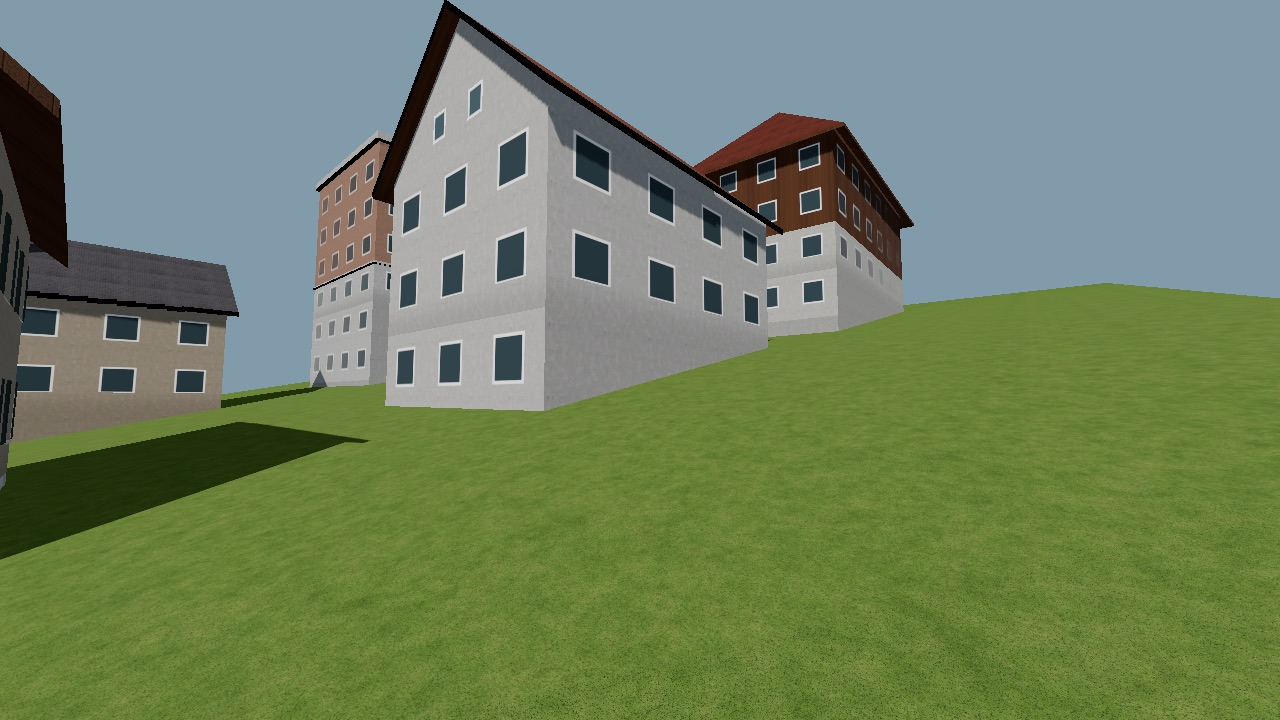
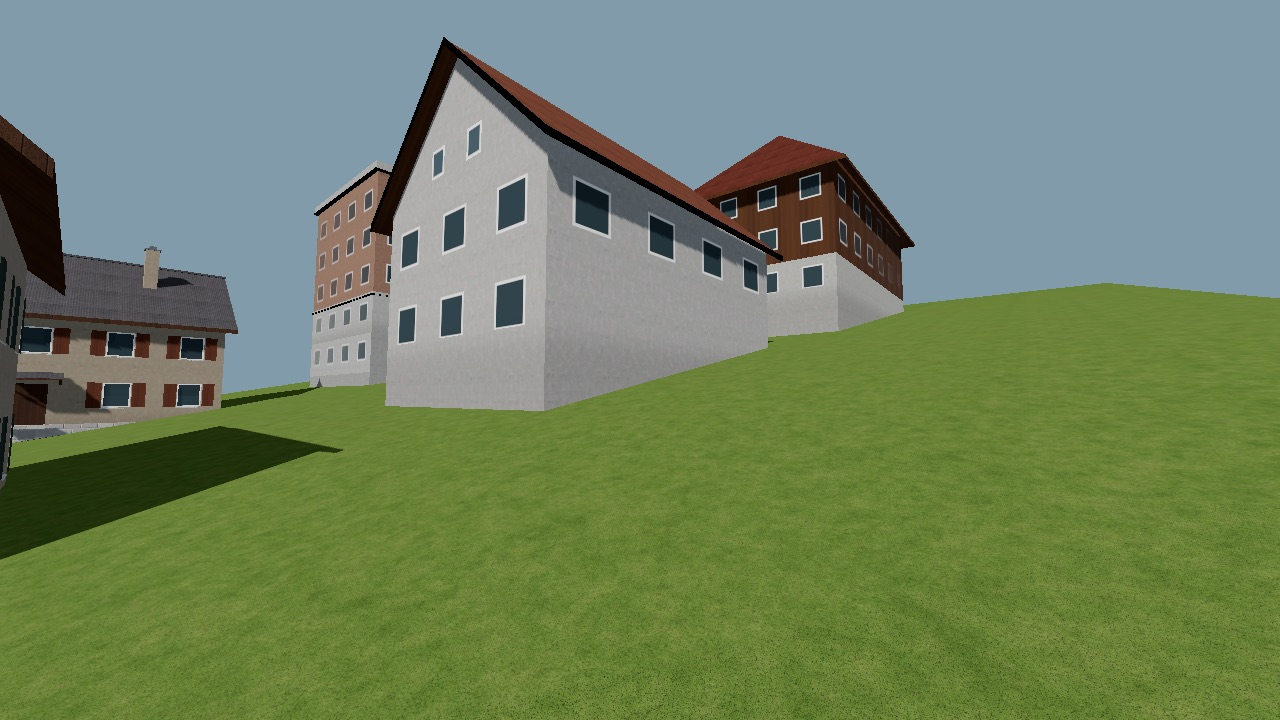
fix(3d): set buildings into slopes instead of on their highest ground
The ground floor stood at the highest ground under a building, so on
slopes buildings stood a storey or more too tall from below. It now lies
at the mean ground, set in at most 2.4 m uphill (1 m for models, whose
doors may face uphill); the unchanged terrain hides the walls there, and
no storey shows windows on a wall whose ground lies over their sills.
Downhill, lower storeys show as before.

Changed region(s): [[0.2188, 0.0, 0.7188, 0.55], [0.0, 0.0611, 0.2812, 0.6722], [0.2188, 0.5194, 0.25, 0.55]]

diff --git a/core/orqwa-world/src/tests.rs b/core/orqwa-world/src/tests.rs
@@ -2486,8 +2486,9 @@ async fn buildings_stand_on_the_ground_with_walls_facing_out() {
 
     let faces = building_faces(&world, (60.0, 500.0), 30.0);
     // From below the lowest corner, 55 m east, to a pitched roof (perhaps with a chimney)
-    // over two storeys of walls from the highest corner, 65 m east.
-    let eaves = slope_at(65.0) + 2.0 * 3.0 + 0.4;
+    // over two storeys of walls from the floor, set into the slope at its mean ground, 60 m
+    // east.
+    let eaves = slope_at(60.0) + 2.0 * 3.0 + 0.4;
     let top = highest(&faces);
     assert!((eaves + 3.0..eaves + 6.0).contains(&top), "top {top}");
     assert!((lowest(&faces) - (slope_at(55.0) - 1.0)).abs() < 0.01);
@@ -2509,16 +2510,19 @@ async fn buildings_stand_on_the_ground_with_walls_facing_out() {
 }
 
 #[tokio::test]
-async fn buildings_on_slopes_show_lower_storeys_downhill_not_a_blank_plinth() {
-    // Houses of two storeys across ground rising eastwards by 10 %, 36 m and 24 m long: their
-    // west ends stand 3.6 m and 2.4 m lower than their east ends (#554, R257).
-    let houses = [(43, 500.0, 18.0), (44, 540.0, 12.0)].map(|(id, north, half)| Building {
-        id,
-        outline: rectangle(60.0, north, half, 5.0),
-        height: None,
-        levels: Some(2.0),
-        color: None,
-    });
+async fn buildings_on_slopes_are_set_into_them() {
+    // Houses of two storeys across ground rising eastwards by 10 %, 24 m, 36 m and 60 m long:
+    // they fall 2.4 m, 3.6 m and 6 m from end to end (#554, R257).
+    let houses =
+        [(43, 470.0, 12.0), (44, 510.0, 18.0), (45, 550.0, 30.0)].map(|(id, north, half)| {
+            Building {
+                id,
+                outline: rectangle(60.0, north, half, 5.0),
+                height: None,
+                levels: Some(2.0),
+                color: None,
+            }
+        });
     let world = world(&MapData {
         buildings: houses.to_vec(),
         ..MapData::default()
@@ -2541,42 +2545,66 @@ async fn buildings_on_slopes_show_lower_storeys_downhill_not_a_blank_plinth() {
             f32::MAX
         }
     };
-    for (_, north, half) in [(43, 500.0_f32, 18.0_f32), (44, 540.0, 12.0)] {
-        let faces = building_faces(&world, (60.0, north), 25.0);
+    for (north, half) in [(470.0_f32, 12.0_f32), (510.0, 18.0), (550.0, 30.0)] {
+        let faces = building_faces(&world, (60.0, north), half + 8.0);
         let (west, east) = (60.0 - half, 60.0 + half);
-        let floor = slope_at(east);
-        let lowest_windows = faces
+        let lowest_windows = |downhill: bool| {
+            faces
+                .iter()
+                .filter(|f| {
+                    if downhill {
+                        f.normal[0] < -0.9 && f.middle()[0] < west + 1.0
+                    } else {
+                        f.normal[0] > 0.9 && f.middle()[0] > east - 1.0
+                    }
+                })
+                .filter(|f| matches!(f.style(), 0 | 2))
+                .map(windows_from)
+                .fold(f32::MAX, f32::min)
+        };
+        // The ground floor is set into the slope: below the uphill ground, by a storey at most.
+        // Walls count their texture's height from it.
+        let floor = faces
             .iter()
-            .filter(|f| f.normal[0] < -0.9 && f.middle()[0] < west + 1.0)
-            .filter(|f| matches!(f.style(), 0 | 2))
-            .map(windows_from)
-            .fold(f32::MAX, f32::min);
+            .filter(|f| f.normal[1].abs() < 0.1 && matches!(f.style(), 0 | 1))
+            .flat_map(|f| f.corners.iter().zip(f.uvs))
+            .filter(|(_, uv)| uv[1].abs() < 20.0)
+            .map(|(c, uv)| c[1] - uv[1])
+            .fold(f32::MIN, f32::max);
+        let top = slope_at(east);
+        assert!(
+            floor < top - 0.5 && floor >= top - 2.41,
+            "{half} m: floor {floor} under the uphill ground {top}"
+        );
+        // Uphill, no storey shows windows under the ground there.
+        let uphill = lowest_windows(false);
+        assert!(
+            uphill > slope_at(east) && uphill - slope_at(east) < 3.5,
+            "{half} m: uphill windows from {uphill} over ground {}",
+            slope_at(east)
+        );
+        // Downhill, windows start within a storey of the ground.
+        let downhill = lowest_windows(true);
         let ground = slope_at(west);
         assert!(
-            lowest_windows - ground < 3.0,
-            "{half} m: windows start {} m above the downhill ground, not within a storey",
-            lowest_windows - ground
-        );
-        assert!(
-            lowest_windows < floor,
-            "{half} m: the downhill wall shows a storey below the ground floor"
-        );
-        assert!(
-            lowest_windows > ground,
-            "{half} m: the lower storey's windows clear the ground"
-        );
-        // Uphill, the ground floor stands at the highest ground, as before.
-        let east_windows = faces
-            .iter()
-            .filter(|f| f.normal[0] > 0.9 && f.middle()[0] > east - 1.0)
-            .filter(|f| matches!(f.style(), 0 | 2))
-            .map(windows_from)
-            .fold(f32::MAX, f32::min);
-        assert!(
-            (east_windows - (floor + 1.0)).abs() < 0.01,
-            "{half} m: uphill windows from {east_windows}, floor {floor}"
+            downhill > ground && downhill - ground < 3.0,
+            "{half} m: downhill windows from {} m over the ground",
+            downhill - ground
         );
     }
+    // The long house falls 6 m: downhill, a storey shows below its ground floor, which is
+    // set in no more than a storey uphill.
+    let faces = building_faces(&world, (60.0, 550.0), 38.0);
+    let lower = faces
+        .iter()
+        .filter(|f| f.normal[0] < -0.9 && f.middle()[0] < 31.0 && matches!(f.style(), 0 | 2))
+        .map(windows_from)
+        .fold(f32::MAX, f32::min);
+    let floor = slope_at(90.0) - 2.4;
+    assert!(
+        lower < floor,
+        "a lower storey downhill: windows from {lower}, floor {floor}"
+    );
 }
 
 #[tokio::test]
@@ -2869,9 +2897,10 @@ async fn tall_blocks_have_flat_roofs_behind_a_parapet() {
     .await;
 
     let faces = building_faces(&world, (80.0, 500.0), 30.0);
-    // Six storeys of 3 m make the mapped 18 m above the highest corner; a parapet capped by
-    // its cornice, and perhaps a stair housing, top them.
-    let eaves = slope_at(90.0) + 6.0 * 3.0 + 0.4;
+    // Six storeys of 3 m make the mapped 18 m above the floor, set into the slope at the
+    // mean ground, 80 m east; a parapet capped by its cornice, and perhaps a stair housing,
+    // top them.
+    let eaves = slope_at(80.0) + 6.0 * 3.0 + 0.4;
     let top = highest(&faces);
     assert!(
         (top - (eaves + 0.88)).abs() < 0.01 || (top - (eaves + 2.6)).abs() < 0.01,
@@ -3216,11 +3245,11 @@ async fn rectangular_houses_become_models_with_shells_for_the_distance() {
     assert_eq!(models.len(), 1, "only the rectangular house");
     let house = &models[0];
     assert!(house.model.starts_with("house_"), "{}", house.model);
-    // Standing on its footprint's centre, at the highest ground (65 m east), stretched by no
-    // more than a quarter, its length along the outline's.
+    // Standing on its footprint's centre, set into the slope at its mean ground (60 m east),
+    // stretched by no more than a quarter, its length along the outline's.
     assert!((house.origin[0] - 60.0).abs() < 0.01 && (house.origin[2] + 500.0).abs() < 0.01);
     assert!(
-        (house.origin[1] - slope_at(64.5)).abs() < 0.01,
+        (house.origin[1] - slope_at(60.0)).abs() < 0.01,
         "{}",
         house.origin[1]
     );

diff --git a/core/orqwa-world/src/buildings/mod.rs b/core/orqwa-world/src/buildings/mod.rs
@@ -67,6 +67,10 @@ const STORE_AREA: f64 = 2500.0;
 /// shells, which show lower storeys there as buildings on slopes do (#554). Castles and
 /// lighthouses, on hilltops and rocks, reach 8 m down (`art/buildings`, `DEEP`).
 const MODEL_BASEMENT: f64 = 1.8;
+/// How deep a ground floor is set into a slope at most, on its uphill side: about a storey, as
+/// a hillside house dug into it; a model's, whose door may face uphill, a metre.
+const SET_IN: f64 = 2.4;
+const MODEL_SET_IN: f64 = 1.0;
 const DEEP_BASEMENT: f64 = 7.8;
 /// A castle's walls rise this far at least and at most, to a wall walk behind a parapet this
 /// high; over a free outline the keep rises this far over the walk before its roof, and the
@@ -509,11 +513,17 @@ pub(crate) fn add(chunk: &mut ChunkBuildings, plot: &Plot, heights: &HeightGrid,
     if footprint.len() < 3 {
         return;
     }
-    // Floors are level: the ground floor is at the highest ground, and on slopes the walls
-    // go down to the lowest like a basement.
+    // Floors are level and set into the slope as buildings on slopes are built (#554): at the
+    // mean ground under the footprint, buried no more than `SET_IN` on the uphill side, where
+    // the ground hides the walls; downhill the walls go down to the lowest ground, showing
+    // lower storeys. Models, whose doors can be on any side, are set in less.
     let grounds: Vec<f64> = footprint.iter().map(|&(e, n)| heights.at(e, n)).collect();
-    let ground = grounds.iter().copied().fold(f64::NEG_INFINITY, f64::max);
+    let highest = grounds.iter().copied().fold(f64::NEG_INFINITY, f64::max);
     let lowest = grounds.iter().copied().fold(f64::INFINITY, f64::min);
+    #[allow(clippy::cast_precision_loss)] // a footprint's few corners
+    let mean = grounds.iter().sum::<f64>() / grounds.len() as f64;
+    let model_ground = mean.max(highest - MODEL_SET_IN);
+    let ground = mean.max(highest - SET_IN);
     let area = signed_area(footprint);
     let dice = Dice(plot.building.id);
     let kind = kind(plot, area, ground, &dice);
@@ -542,7 +552,7 @@ pub(crate) fn add(chunk: &mut ChunkBuildings, plot: &Plot, heights: &HeightGrid,
     };
     // A shop's front is drawn on the shell, which shows it up close too.
     let fit = rect
-        .filter(|_| ground - lowest < basement && plot.shop.is_none())
+        .filter(|_| model_ground - lowest < basement && plot.shop.is_none())
         .and_then(|rect| {
             let wanted = Wanted {
                 kind,
@@ -570,6 +580,7 @@ pub(crate) fn add(chunk: &mut ChunkBuildings, plot: &Plot, heights: &HeightGrid,
         return;
     };
 
+    let ground = model_ground;
     #[allow(clippy::cast_possible_truncation)] // world coordinates are far below 2^63 cells
     let cell = (
         (rect.centre.0 / CELL).floor() as i64,
@@ -1493,11 +1504,11 @@ fn build(
     b.plinth(&outline, bottom, lower, design.windows.then_some(lower));
     match design.base {
         Some(base) if ground + STOREY < wall_top => {
-            b.walls(&outline, ground, ground + STOREY, base);
-            b.walls(&outline, ground + STOREY, wall_top, design.wall);
+            b.facade(&outline, ground, ground + STOREY, base);
+            b.facade(&outline, ground + STOREY, wall_top, design.wall);
         }
-        Some(base) => b.walls(&outline, ground, wall_top, base),
-        None => b.walls(&outline, ground, wall_top, design.wall),
+        Some(base) => b.facade(&outline, ground, wall_top, base),
+        None => b.facade(&outline, ground, wall_top, design.wall),
     }
 
     let pitch = Pitch {

diff --git a/core/orqwa-world/src/buildings/parts.rs b/core/orqwa-world/src/buildings/parts.rs
@@ -25,6 +25,8 @@ const LOWER_ROWS: f64 = 30.0;
 const LOWER_STOREY_SLACK: f64 = 1.0;
 /// No wall shows more lower storeys than this.
 const LOWER_STOREYS: f64 = 4.0;
+/// How far over its floor a storey's windows begin (`app/shaders/building.gdshader`).
+const WINDOW_SILL: f64 = 1.0;
 
 /// The whole storeys showing below the ground floor where the ground lies `drop` below it.
 fn lower_storeys(drop: f64) -> f64 {
@@ -172,6 +174,36 @@ impl Builder<'_> {
         for i in 0..outline.len() {
             let (a, b) = (outline[i], outline[(i + 1) % outline.len()]);
             self.wall(a, b, (bottom, top), paint, side, 0.0);
+        }
+    }
+
+    /// Walls from `bottom` to `top` along a counter-clockwise `outline`, facing out, above the
+    /// ground floor: where a wall's ground, at its higher end, lies over a storey's window
+    /// sills, as on the uphill side of a building set into a slope, that storey shows no
+    /// windows on that wall, so none is seen half sunk in the ground.
+    pub(crate) fn facade(&mut self, outline: &[Point], bottom: f64, top: f64, paint: Paint) {
+        let blank = match paint.style {
+            Style::Plaster => paint.with(Style::Blank),
+            Style::Timber => paint.with(Style::Boards),
+            _ => paint,
+        };
+        for i in 0..outline.len() {
+            let (a, b) = (outline[i], outline[(i + 1) % outline.len()]);
+            let buried = self.terrain.map_or(f64::NEG_INFINITY, |terrain| {
+                terrain.at(a.0, a.1).max(terrain.at(b.0, b.1)) - self.ground
+            });
+            let blind = if blank == paint || buried <= WINDOW_SILL {
+                bottom
+            } else {
+                let storeys = ((buried - WINDOW_SILL) / STOREY).ceil();
+                (self.ground + storeys * STOREY).clamp(bottom, top)
+            };
+            if blind > bottom {
+                self.wall(a, b, (bottom, blind), blank, 1.0, 0.0);
+            }
+            if top > blind {
+                self.wall(a, b, (blind, top), paint, 1.0, 0.0);
+            }
         }
     }
 

diff --git a/docs/adr/0041-building-shape.md b/docs/adr/0041-building-shape.md
@@ -116,26 +116,38 @@ the buildings that have them. Each step is described here as it is made.
 
 ## Step 2: buildings on slopes (2026-11-18, R257)
 
-A building's ground floor stays at the highest ground under it: a hillside house has its
-entrance on the uphill side, and lowering it would bury doors and shop fronts. What changes is
-the wall below the floor. Each wall reaches down to its own ground and shows as many lower
-storeys, up to four, as fit with their windows clear of it: a storey whose floor lies up to
-1 m below the ground still shows, as a semi-basement's windows do. They have the windows of
-the building's ground floor. Only the rest is plinth, so windows start within a storey of the
-ground on every downhill wall. The shell shader draws
-windows from 1 m above its texture's zero, so lower storeys lift their texture rows by 30 m,
-a whole number of storeys and of every wall texture's repeat: rows and texture run on
-unbroken. A wall's ground is the higher of its two ends, so side walls across the slope keep a
-plinth and only downhill walls open up.
+A building on a slope is set into it, as hillside houses are dug in: its ground floor lies at
+the mean ground under its footprint, buried no more than `SET_IN` (2.4 m, about a storey) on
+the uphill side. The terrain stays as it is: there it hides the walls' lower part, so the
+building looks dug in without a pit or platform being shaped. Before, the floor stood at the
+highest ground, so buildings on slopes stood a storey or more too tall from below (#554).
 
-Fitted models carry a 3 m stone basement. They were used where the ground fell up to 2.8 m,
-which left a storey-high stone wall downhill. Now they are used up to 1.8 m, a plinth's
-height; steeper plots get shells with lower storeys. The shell drawn far from a model keeps
-the model's plinth, so the two still match when they swap.
+A wall whose ground, at its higher end, lies over a storey's window sills (1 m over its floor)
+shows no windows in that storey (`Builder::facade`), so none is seen half sunk in the ground;
+side walls across the slope lose their lowest windows where the uphill end buries them.
 
-In the tests, two houses lie across a 10 % slope. On the 36 m one (3.6 m fall), windows
-downhill started 4.6 m above the ground; now 1.6 m, in a lower storey. On the 24 m one (2.4 m
-fall) they started 3.4 m up; now 0.4 m, in a semi-basement. Generator 43; the stored format stays 3.
+Downhill each wall reaches down to its own ground and shows as many lower storeys, up to four,
+as fit with their windows clear of it: a storey whose floor lies up to 1 m below the ground
+still shows, as a semi-basement's windows do. They have the windows of the building's ground
+floor. Only the rest is plinth, so windows start within a storey of the ground on every
+downhill wall. The shell shader draws windows from 1 m above its texture's zero, so lower
+storeys lift their texture rows by 30 m, a whole number of storeys and of every wall
+texture's repeat: rows and texture run on unbroken.
+
+Fitted models, whose doors may face uphill, are set in no more than 1 m (`MODEL_SET_IN`), and
+are used where the ground falls less than 1.8 m below their floor: their 3 m basement is a
+plain stone plinth. Steeper plots get shells with lower storeys. The shell drawn far from a
+model keeps the model's plinth, so the two still match when they swap.
+
+In the tests, three houses lie across a 10 % slope:
+
+| House | Fall | Set in | Downhill windows over the ground, on main → now |
+|---|---:|---:|---:|
+| 24 m | 2.4 m | 1.2 m | 3.4 m → 2.2 m |
+| 36 m | 3.6 m | 1.8 m | 4.6 m → 2.8 m |
+| 60 m | 6.0 m | 2.4 m | 7.0 m → 1.6 m, over a lower storey |
+
+No uphill window lies under the ground. Generator 43; the stored format stays 3.
 
 ## Consequences
 

diff --git a/docs/REQUIREMENTS.md b/docs/REQUIREMENTS.md
@@ -747,4 +747,4 @@ residency even when generation finishes the whole course before riding.
 
 | ID | Requirement |
 |---|---|
-| R257 | Refines R16 and R89 (2026-11-18, #554): **a building on a slope stands as one on a hillside does**. Its ground floor stays at the uphill ground, and where the ground falls below it, that wall shows as many lower storeys as fit with their windows clear of the ground, at most four, instead of a blank plinth; a semi-basement's floor may lie up to 1 m below the ground. Only the remainder is plinth, so windows start within a storey of the downhill ground. Walls whose ground falls less, including side walls across the slope, keep a plinth. Fitted models, whose basement is a plain stone plinth, are used only where the ground falls less than 1.8 m under them; steeper plots get the generated building with its lower storeys. Kept worlds offer regeneration (R101). |
+| R257 | Refines R16 and R89 (2026-11-18, #554): **a building on a slope is set into it** as hillside buildings are dug in. Its ground floor lies at the mean ground under it, buried at most about a storey (2.4 m) on the uphill side, where the unchanged terrain hides the lower walls; fitted models, whose doors may face uphill, are set in at most 1 m. No storey shows windows on a wall whose ground lies over their sills. Downhill, where the ground falls below the floor, the wall shows as many lower storeys as fit with their windows clear of the ground, at most four, instead of a blank plinth; a semi-basement's floor may lie up to 1 m below the ground. Only the remainder is plinth, so windows start within a storey of the downhill ground. Fitted models, whose basement is a plain stone plinth, are used only where the ground falls less than 1.8 m below their floor; steeper plots get the generated building with its lower storeys. Kept worlds offer regeneration (R101). |
